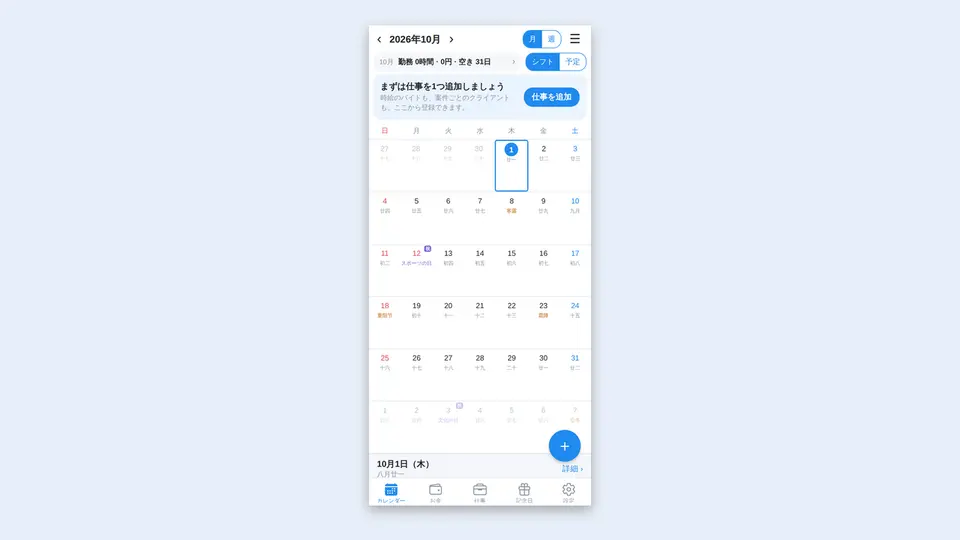
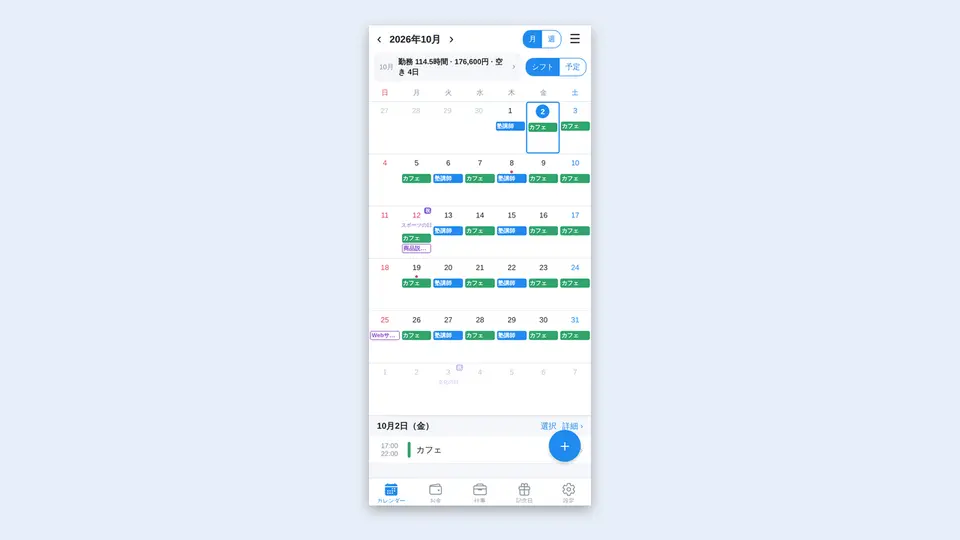
Embed シフト手帳 as a desktop app in a phone-shaped window
New アプリ開発 category (APPS in data.js). The シフト手帳 icon opens a
Win98 window with the real app in a phone frame plus its description;
on phones it fills the screen. It loads the web build with
?lang=ja&demo=1 so visitors see a Japanese UI with sample data.
Web制作 is emptied of placeholders and, like games, hides its icon and
category while empty.

Claude-Session: https://claude.ai/code/session_01TUuDej7PTE1WkXh9Pefr4z

diff --git a/assets/js/main.js b/assets/js/main.js
@@ -59,11 +59,12 @@ const SVG = {
   pdf: '<svg viewBox="0 0 32 32" shape-rendering="crispEdges"><path d="M6 2h14l6 6v22H6z" fill="#fff" stroke="#333" stroke-width="1.4"/><path d="M20 2v6h6" fill="#ddd" stroke="#333" stroke-width="1.4"/><rect x="4" y="17" width="20" height="9" fill="#c2413b"/><path d="M7 19h3v2H8v3H7zM8 19h2v2H8zM11 19h3v5h-3zM12 20h1v3h-1zM15 19h3v1h-2v1h2v1h-2v2h-1z" fill="#fff"/><path d="M12 20h1v3h-1z" fill="#c2413b"/></svg>',
   mail: '<svg viewBox="0 0 32 32" shape-rendering="crispEdges"><rect x="3" y="8" width="26" height="17" fill="#fff" stroke="#333" stroke-width="1.4"/><path d="M3 8l13 10 13-10" fill="none" stroke="#333" stroke-width="1.4"/><circle cx="25" cy="9" r="4" fill="#b27aa6" stroke="#4b3263"/></svg>',
   img: '<svg viewBox="0 0 32 32" shape-rendering="crispEdges"><rect x="3" y="5" width="26" height="22" fill="#fff" stroke="#333" stroke-width="1.4"/><path d="M5 25l8-9 6 6 4-4 4 7z" fill="#6f9c96"/><circle cx="22" cy="11" r="3" fill="#f4cf5f"/></svg>',
+  phone: '<svg viewBox="0 0 32 32" shape-rendering="crispEdges"><rect x="8" y="2" width="16" height="28" rx="2" fill="#3a3833" stroke="#222" stroke-width="1.2"/><rect x="10" y="5" width="12" height="20" fill="#fff"/><rect x="10" y="5" width="12" height="4" fill="#4b3263"/><path d="M11 11h2v2h-2zM15 11h2v2h-2zM19 11h2v2h-2zM11 15h2v2h-2zM15 15h2v2h-2zM19 15h2v2h-2zM11 19h2v2h-2zM15 19h2v2h-2z" fill="#6f9c96"/><rect x="19" y="19" width="2" height="2" fill="#b27aa6"/><rect x="14" y="26.5" width="4" height="1.6" fill="#8a867e"/></svg>',
   pc: '<svg viewBox="0 0 32 32" shape-rendering="crispEdges"><rect x="4" y="4" width="24" height="17" fill="#d8d4cb" stroke="#333" stroke-width="1.4"/><rect x="7" y="7" width="18" height="11" fill="#6f9c96"/><rect x="10" y="23" width="12" height="3" fill="#d8d4cb" stroke="#333"/><rect x="6" y="26" width="20" height="3" fill="#d8d4cb" stroke="#333"/></svg>',
 };
 const ICON_OF = { web: 'web', uiux: 'folder', illust: 'folder', univ: 'folder', works: 'pc', about: 'txt', contact: 'mail', resume: 'pdf' };
-const iconFor = id => SVG[id.indexOf('game:') === 0 ? 'game' : ICON_OF[id] || 'folder'];
-const KIND_ICON = { FOLDER: 'folder', BROWSER: 'web', GAME: 'game', VIEWER: 'img', TEXT: 'txt', MAIL: 'mail', WELCOME: 'pc' };
+const iconFor = id => SVG[id.indexOf('game:') === 0 ? 'game' : id.indexOf('app:') === 0 ? 'phone' : ICON_OF[id] || 'folder'];
+const KIND_ICON = { FOLDER: 'folder', BROWSER: 'web', GAME: 'game', APP: 'phone', VIEWER: 'img', TEXT: 'txt', MAIL: 'mail', WELCOME: 'pc' };
 
 /* ---------- 画像のまとまり（ビューアで順番に見る） ---------- */
 const SETS = {};
@@ -72,7 +73,13 @@ SETS.univ = { title: '大学時代のデザイン', items: UNIV };
 SETS.illust = { title: 'イラスト', items: ILLUST };
 const catLabel = id => (CATEGORIES.find(c => c.id === id) || {}).label || id;
 // 中身がまだ無い分類（ゲームなど）は出さない
-const CATS = CATEGORIES.filter(c => c.id !== 'game' || GAMES.length);
+const HAS = { app: APPS.length, web: WEB.length, game: GAMES.length };
+const CATS = CATEGORIES.filter(c => !(c.id in HAS) || HAS[c.id]);
+// デスクトップに置くもの（中身が無いアイコンは出さない）
+const findApp = id => APPS.find(a => 'app:' + a.id === id);
+const findGame = id => GAMES.find(g => 'game:' + g.id === id);
+const DESK_ITEMS = DESK.filter(d =>
+  d.id === 'web' ? WEB.length : d.id.indexOf('app:') === 0 ? findApp(d.id) : d.id.indexOf('game:') === 0 ? findGame(d.id) : true);
 
 // カルーセルに並べるもの：Web制作 ＋ ゲーム（ゲームも見逃さないように）
 const SLIDES = WEB.map(w => Object.assign({ type: 'web' }, w))
@@ -82,8 +89,12 @@ const SLIDES = WEB.map(w => Object.assign({ type: 'web' }, w))
    起動画面
    ========================================================================== */
 const boot = $('#boot');
-const BOOT_LINES = ['LUO JIAWEN portfolio OS  ver.2026', '', 'UI/UX を読み込み中 ........ OK',
-  'イラスト を読み込み中 ...... OK', 'Web制作 を読み込み中 ....... OK'].concat(GAMES.length ? ['Web ゲーム を読み込み中 .... OK'] : [], ['', 'ようこそ。']);
+const BOOT_LINES = ['LUO JIAWEN portfolio OS  ver.2026', ''].concat(
+  APPS.length ? ['アプリ を読み込み中 ........ OK'] : [],
+  ['UI/UX を読み込み中 ........ OK', 'イラスト を読み込み中 ...... OK'],
+  WEB.length ? ['Web制作 を読み込み中 ....... OK'] : [],
+  GAMES.length ? ['Web ゲーム を読み込み中 .... OK'] : [],
+  ['', 'ようこそ。']);
 let bootTimer = null, booted = false;
 function endBoot() {
   if (booted) return;
@@ -120,9 +131,9 @@ const savedPos = store.get(POS_KEY) || {};
 const rand = (a, b) => a + Math.random() * (b - a);
 const clamp01 = v => Math.min(1, Math.max(0, v));
 
-function countWorks() { return WEB.length + GAMES.length + UIUX.length + UNIV.length + ILLUST.length; }
+function countWorks() { return APPS.length + WEB.length + GAMES.length + UIUX.length + UNIV.length + ILLUST.length; }
 
-const entries = DESK.map((d, i) => {
+const entries = DESK_ITEMS.map((d, i) => {
   const isLink = d.id === 'resume';
   const el = document.createElement(isLink ? 'a' : 'button');
   el.className = 'entry icon';
@@ -142,6 +153,7 @@ const entries = DESK.map((d, i) => {
   el.innerHTML = '<span class="ico" aria-hidden="true">' + iconFor(d.id) + '</span>' + preview +
     '<span class="lbl">' + esc(d.label) + extra + '</span>';
   if (g) el.setAttribute('aria-label', 'Web ゲーム：' + g.title);
+  if (findApp(d.id)) el.setAttribute('aria-label', 'アプリ：' + d.label.replace(/\s+/g, ' '));
   // 決めた位置 ＋ ほんの少しだけずらす（設計されたランダム）
   el._home = { x: clamp01(d.x + rand(-0.015, 0.015)), y: clamp01(d.y + rand(-0.015, 0.015)) };
   el._pos = savedPos[d.id] || el._home;
@@ -428,6 +440,7 @@ function card(attrs, media, title, sub, badge, badgeCls) {
 }
 function catCards(id) {
   if (id === 'web') return WEB.map((w, i) => card('data-open="web" data-index="' + i + '"', shotMedia(w.shot, w.title, 'web'), w.title, w.desc));
+  if (id === 'app') return APPS.map(a => card('data-open="app:' + esc(a.id) + '"', shotMedia(a.shot, a.title, 'web'), a.title, a.desc));
   if (id === 'game') return GAMES.map(g => card('data-open="game:' + esc(g.id) + '"', shotMedia(g.shot, g.title, 'game'), g.title, g.desc));
   if (id === 'uiux') return UIUX.map(p => card('data-view="' + p.id + '" data-i="0"', imgTag(p.items[0].src, 'sm', p.title), p.title, p.sub));
   const set = id === 'univ' ? UNIV : ILLUST;
@@ -562,6 +575,34 @@ function initCarousel(el, start) {
   el._cleanup = () => { stop(); document.removeEventListener('visibilitychange', onVis); };
   show(start);
   play();
+}
+
+/* ==========================================================================
+   中身：アプリ（スマホの形のウィンドウの中で、実際に操作できる）
+   ========================================================================== */
+function openApp(id) {
+  const a = APPS.find(x => x.id === id);
+  if (!a) return;
+  const tags = (a.tags || []).length ? '<ul class="tags" aria-label="使用技術">' + a.tags.map(t => '<li>' + esc(t) + '</li>').join('') + '</ul>' : '';
+  openSheet('app:' + id, {
+    title: a.title, kind: 'APP', w: 720, inset: false, cls: 'app-win',
+    status: 'スマホ版の画面です。そのまま操作できます（見本のデータが入っています）',
+    body:
+      '<div class="app-layout"><div class="phone"><iframe src="' + esc(a.url) + '" title="' + esc(a.title) + '（アプリ）"></iframe></div>' +
+      '<div class="app-info"><p class="slide-kind">アプリ開発</p><h3>' + esc(a.title) + '</h3><p>' + esc(a.desc) + '</p>' +
+      (a.role ? '<p class="role">担当：' + esc(a.role) + '</p>' : '') + tags +
+      '<div class="row"><a class="btn" href="' + esc(a.url) + '" target="_blank" rel="noopener">新しいタブで開く ↗</a>' +
+      (a.repo ? '<a class="btn" href="' + esc(a.repo) + '" target="_blank" rel="noopener">GitHub ↗</a>' : '') + '</div></div></div>',
+    init: el => {
+      const frame = $('iframe', el);
+      // アプリの中で Esc を押したら、アプリから抜けてページの操作にもどる（同じサイト内のみ）
+      frame.addEventListener('load', () => {
+        try {
+          frame.contentWindow.addEventListener('keydown', ev => { if (ev.key === 'Escape') $('[data-act="close"]', el).focus(); });
+        } catch (e) { /* 別ドメインのアプリ */ }
+      });
+    },
+  });
 }
 
 /* ==========================================================================
@@ -753,6 +794,7 @@ function open(id, d) {
   if (id === 'works') return openWorks(d.cat);
   if (id === 'web') return openWeb(d.index !== undefined ? +d.index : null);
   if (id.indexOf('game:') === 0) return openGame(id.slice(5));
+  if (id.indexOf('app:') === 0) return openApp(id.slice(4));
   if (id === 'uiux' || id === 'univ' || id === 'illust') return openFolder(id);
   if (id === 'about') return openAbout();
   if (id === 'contact') return openContact();
@@ -783,7 +825,7 @@ const startMenu = $('#startMenu');
 startBtn.innerHTML = SVG.pc + '<span>スタート</span>';
 $$('[data-ico]').forEach(s => { s.innerHTML = SVG[s.dataset.ico]; });
 $('#smList').innerHTML =
-  DESK.map(d => d.id === 'resume'
+  DESK_ITEMS.map(d => d.id === 'resume'
     ? '<a role="menuitem" href="' + esc(asset(PROFILE.resume)) + '" target="_blank" rel="noopener">' + SVG.pdf + '<span>履歴書をダウンロード</span></a>'
     : '<button role="menuitem" data-open="' + esc(d.id) + '">' + iconFor(d.id) + '<span>' + esc(d.label) + '</span></button>').join('') +
   '<div class="sm-sep" role="separator"></div>' +

diff --git a/assets/js/data.js b/assets/js/data.js
@@ -40,6 +40,31 @@ const EXPERIENCE = [
 ];
 
 /* --------------------------------------------------------------------------
+   アプリ開発（デスクトップの中で、スマホの形のウィンドウで実際に操作できます）
+   id    : 英数字の短い名前（ほかと重ならないように）
+   title : アプリ名
+   url   : 埋め込むアプリのURL
+           ?lang=ja … 日本語で開く　／　?demo=1 … 見本のデータが入った状態で開く
+           （見本のデータは見た人のブラウザの中だけ。自分のデータには影響しません）
+   repo  : GitHub のURL（無ければ ''）
+   shot  : 「すべての作品」に出すサムネイル。BASE からのパス
+   desc  : 一言説明
+   role  : 担当範囲
+   tags  : 使った技術
+   ※ デスクトップに置くには、DESK に { id: 'app:id', … } を1行足してください
+   -------------------------------------------------------------------------- */
+const APPS = [
+  { id: 'shift',
+    title: 'シフト手帳',
+    url: 'https://huu69769.github.io/APP/?lang=ja&demo=1',
+    repo: 'https://github.com/huu69769/APP',
+    shot: 'shots/app.webp',
+    desc: 'アルバイトのシフト・予定・メモを記録するカレンダーアプリ。開くとすぐに、今月の勤務時間・給料・空き時間がわかります。',
+    role: 'デザイン・開発 すべて担当',
+    tags: ['React Native', 'Expo', 'TypeScript'] },
+];
+
+/* --------------------------------------------------------------------------
    Web制作（自分でコードを書いたサイト）
    title : 作品名
    url   : 実際のサイト（新しいタブで開きます）
@@ -48,30 +73,17 @@ const EXPERIENCE = [
    desc  : 一言説明（誰のために、何を解決したか）
    role  : 担当範囲
    tags  : 使った技術
+   ※ いまは空っぽです。空のあいだは「Web制作」のアイコンと分類も自動で隠れます。
+   サイトができたら、下のお手本の // を消して書き換えてください。
    -------------------------------------------------------------------------- */
 const WEB = [
-  { title: 'シフト手帳',
-    // ?lang=ja を付けると、アプリが日本語で開きます
-    url: 'https://huu69769.github.io/APP/?lang=ja',
-    repo: 'https://github.com/huu69769/APP',
-    shot: 'shots/app.webp',
-    desc: 'アルバイトのシフト・予定・メモを記録するカレンダーアプリ。開くとすぐに、今月の勤務時間・給料・空き時間がわかります。',
-    role: 'デザイン・開発 すべて担当',
-    tags: ['React Native', 'Expo', 'TypeScript'] },
-  { title: '作品タイトル2（準備中）',
-    url: 'https://example.com/',
-    repo: '',
-    shot: '',
-    desc: 'どんなサイトか一言で。誰のために、何を工夫したか。',
-    role: 'デザイン・コーディング すべて担当',
-    tags: ['HTML', 'CSS'] },
-  { title: '作品タイトル3（準備中）',
-    url: 'https://example.com/',
-    repo: '',
-    shot: '',
-    desc: 'どんなサイトか一言で。誰のために、何を工夫したか。',
-    role: 'コーディング担当',
-    tags: ['JavaScript'] },
+  // { title: 'サイトの名前',
+  //   url: 'https://huu69769.github.io/xxx/',
+  //   repo: 'https://github.com/huu69769/xxx',
+  //   shot: 'shots/xxx.webp',
+  //   desc: 'どんなサイトか一言で。誰のために、何を工夫したか。',
+  //   role: 'デザイン・コーディング すべて担当',
+  //   tags: ['HTML', 'CSS', 'JavaScript'] },
 ];
 
 /* --------------------------------------------------------------------------
@@ -122,6 +134,7 @@ const ILLUST = [
    作品の分類（作品一覧のタブの順番）
    -------------------------------------------------------------------------- */
 const CATEGORIES = [
+  { id: 'app',    label: 'アプリ開発' },
   { id: 'web',    label: 'Web制作' },
   { id: 'game',   label: 'Web ゲーム' },
   { id: 'uiux',   label: 'UI/UX システム' },
@@ -132,14 +145,15 @@ const CATEGORIES = [
 /* --------------------------------------------------------------------------
    デスクトップのアイコンの並べ方
    id    : 何を置くか（'web' 'uiux' 'univ' 'illust' 'works' 'about' 'contact' 'resume'、
-           ゲームは 'game:ゲームのid'）
+           アプリは 'app:アプリのid'、ゲームは 'game:ゲームのid'）
    label : アイコンの下に出る名前（\n で改行）
    x, y  : 置く位置（0 = 左/上の端、1 = 右/下の端）
    並び順は、スマホでの並び順にもなります（上にあるほど先に表示）
    -------------------------------------------------------------------------- */
 const DESK = [
   // ── 左側：作品（上ほど見てほしいもの） ──
-  { id: 'web',        label: 'Web制作',            x: 0.02, y: 0.03 },
+  { id: 'app:shift',  label: 'シフト手帳',          x: 0.02, y: 0.03 },
+  { id: 'web',        label: 'Web制作',            x: 0.18, y: 0.03 },   // Web制作が空のあいだは表示されません
   { id: 'uiux',       label: 'UI/UX システム',      x: 0.10, y: 0.23 },
   { id: 'illust',     label: 'イラスト',            x: 0.02, y: 0.43 },
   { id: 'univ',       label: '大学時代のデザイン',  x: 0.10, y: 0.63 },

diff --git a/assets/css/style.css b/assets/css/style.css
@@ -292,6 +292,22 @@ button.g-shot { cursor: pointer; }
 .g-tools { display: flex; flex-wrap: wrap; gap: 8px; }
 .sheet.maxed .g-stage { flex: 1; height: auto; min-height: 0; }
 
+/* ---------- アプリ（スマホの形のウィンドウ） ---------- */
+.app-layout { display: flex; flex-wrap: wrap; gap: 18px; align-items: flex-start; }
+.phone {
+  flex: none; padding: 12px 8px 14px;
+  background: var(--dark); border-radius: 28px;
+  box-shadow: inset 0 0 0 2px #55524c, 3px 4px 0 rgba(0, 0, 0, .25);
+}
+.phone iframe {
+  display: block; width: 375px; height: clamp(420px, calc(100vh - 200px), 720px); height: clamp(420px, calc(100dvh - 200px), 720px);
+  border: 0; border-radius: 16px; background: #fff;
+}
+.app-info { flex: 1; min-width: 220px; padding-top: 4px; }
+.app-info h3 { margin: 0 0 6px; font-family: var(--pixel); font-weight: 400; font-size: 22px; }
+.app-info p { margin: 0 0 8px; font-size: 13.5px; line-height: 1.8; }
+.app-info .role { font-size: 12.5px; color: var(--muted); }
+
 /* ---------- 画像ビューア ---------- */
 .viewer { display: flex; flex-direction: column; gap: 10px; }
 .v-stage {
@@ -437,6 +453,12 @@ button.g-shot { cursor: pointer; }
   .v-thumb { flex-basis: 66px; height: 48px; }
   .g-play .g-stage { flex: 1; height: auto; min-height: 320px; }
   .sheet-body:has(.g-play) { display: flex; flex-direction: column; padding: 8px; }
+  /* アプリはスマホの画面いっぱいに */
+  .app-win .sheet-body { display: flex; padding: 0; }
+  .app-win .app-layout { flex: 1; display: flex; flex-wrap: nowrap; align-items: stretch; gap: 0; }
+  .app-win .phone { flex: 1; display: flex; padding: 0; border-radius: 0; background: #fff; box-shadow: none; }
+  .app-win .phone iframe { flex: 1; width: 100%; height: auto; border-radius: 0; }
+  .app-win .app-info, .app-win .sheet-foot { display: none; }
 
   /* 下のバーは「もどる・ホーム・作品・私について・お問い合わせ」 */
   .taskbar { gap: 3px; padding: 4px 4px calc(4px + env(safe-area-inset-bottom)); }

diff --git a/README.md b/README.md
@@ -4,6 +4,7 @@
 
 - 起動画面：OS が立ち上がるような文字が流れる（押すとスキップ）
 - 「ようこそ.exe」ウィンドウが自己紹介。まわりのアイコンが作品の入口
+- 「シフト手帳」アイコン：スマホの形のウィンドウで、自作アプリをその場で操作できる
 - PC：アイコンはドラッグで動かせて、位置はブラウザに保存（スタートメニューの「アイコンを並べ直す」で元に戻る）
 - PC：ウィンドウは複数開けて、動かせる。タスクバーに開いているものが並ぶ。`Esc` で一番手前を閉じる
 - スマホ：携帯ゲーム機・PDA のような形。アイコンは3列に並び、ウィンドウは全画面。下のバーで「もどる・ホーム」
@@ -16,6 +17,7 @@
 
 | やりたいこと | data.js のどこ |
 | --- | --- |
+| アプリ（デスクトップの中で操作できる）を足す・直す | `APPS` |
 | Web制作の作品を足す・直す | `WEB` |
 | ゲームを足す・直す | `GAMES`（`control` は `'keyboard'` か `'touch'`） |
 | UI/UX・大学時代・イラストの画像 | `UIUX` / `UNIV` / `ILLUST` |
@@ -24,7 +26,9 @@
 | カルーセルの切り替え間隔 | `CAROUSEL_INTERVAL` |
 | 画像の置き場所 | `BASE`（`'assets/'` ⇔ 旧サイトのURL を1行で切り替え） |
 
-※ Web ゲームはいまは空です（空のあいだは分類も隠れます）。ゲームを足したら、`DESK` にも `{ id: 'game:ゲームのid', label: '…', x: …, y: … }` を1行足すとデスクトップに置かれます。
+※ Web制作と Web ゲームはいまは空です（空のあいだはアイコンも分類も隠れます）。
+※ アプリは `?lang=ja&demo=1` 付きで埋め込んでいます（日本語＋見本のデータ。見本は見た人のブラウザの中だけで、自分のデータには影響しません）。
+※ ゲームを足したら、`DESK` にも `{ id: 'game:ゲームのid', label: '…', x: …, y: … }` を1行足すとデスクトップに置かれます。
 
 ## 画像について
 
